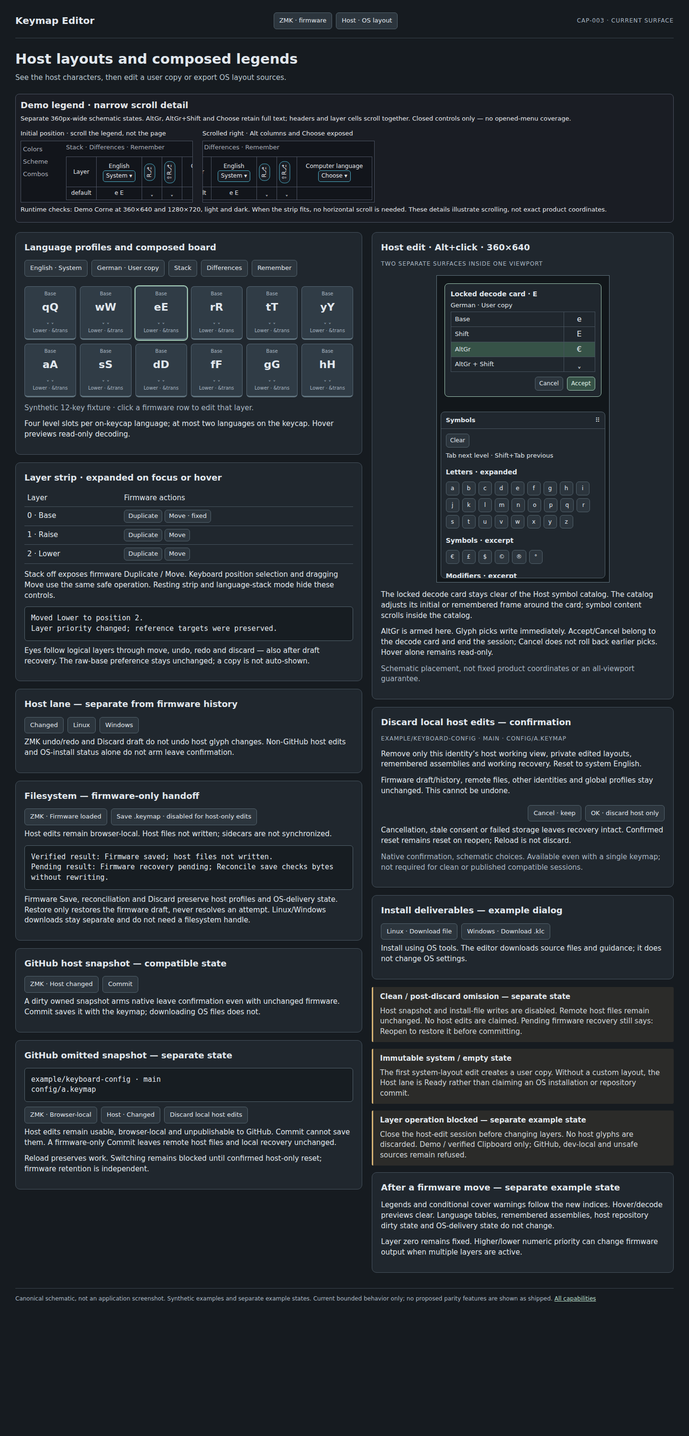
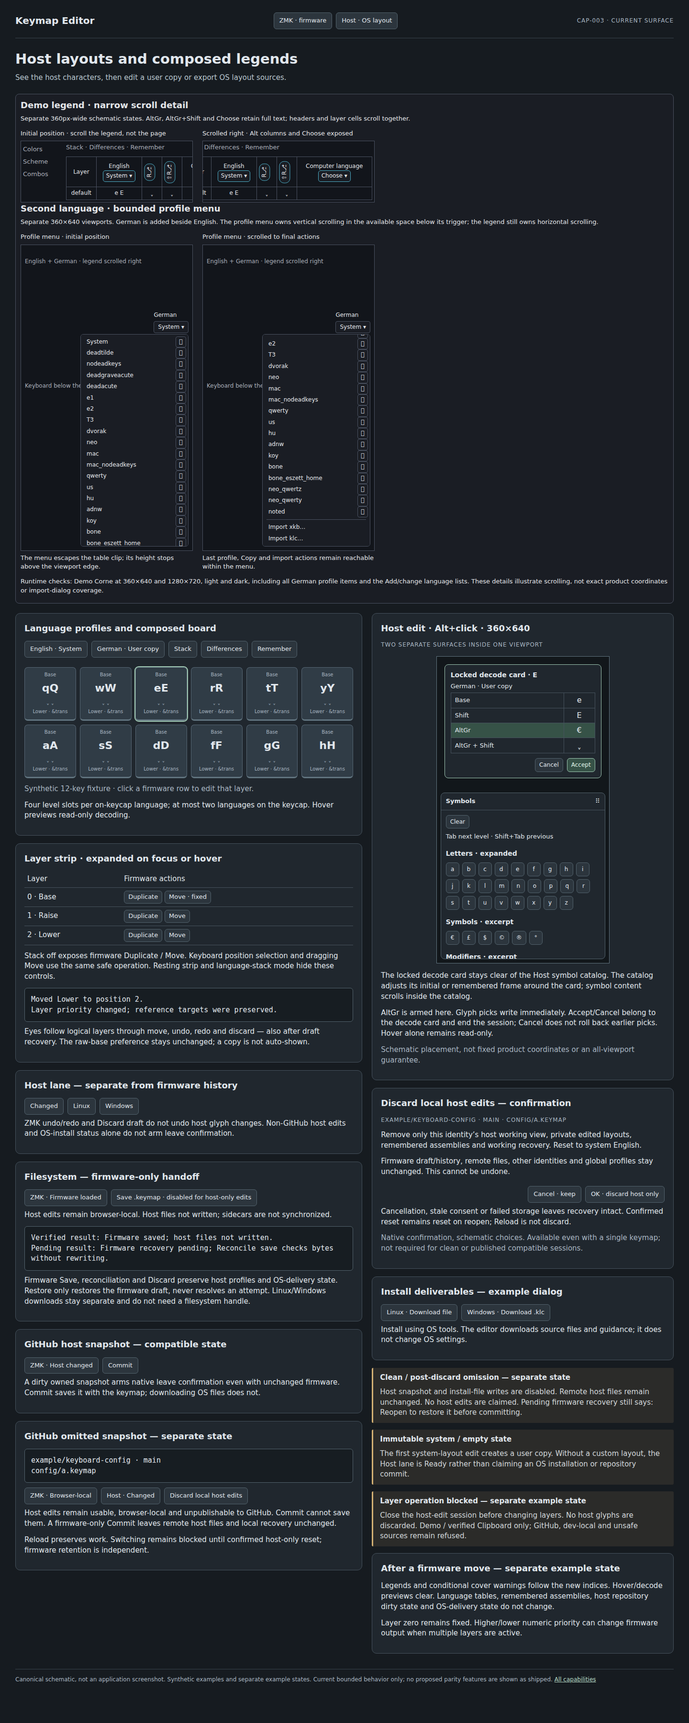
Keep legend menus reachable at narrow viewports.

diff --git a/docs/product/wireframes/html/CAP-003-host-layouts-and-legends.html b/docs/product/wireframes/html/CAP-003-host-layouts-and-legends.html
@@ -12,10 +12,12 @@
 .decode-levels{width:100%;border-collapse:collapse}.decode-levels th,.decode-levels td{padding:4px 8px;border:1px solid #46525d;text-align:left;font-weight:400}.decode-levels td{font-size:16px;text-align:center}.decode-levels .armed{background:#365247}
 .host-catalog{position:absolute;left:8px;top:284px;width:344px;height:348px;display:flex;flex-direction:column;border:1px solid #52626c;border-radius:8px;background:#20272e}.catalog-chrome{display:flex;justify-content:space-between;flex:none;padding:8px 10px;border-bottom:1px solid #46525d}.catalog-body{min-height:0;overflow:auto;scrollbar-gutter:stable;padding:10px}.catalog-body .chips{gap:6px}.catalog-body .chip{min-width:28px;text-align:center}
 
+.legend-profile-list li:not(.legend-menu-separator){margin:0}
+.legend-menu-viewport{position:relative;width:360px;max-width:100%;height:640px;border:1px solid var(--border);background:var(--surface-sunken);font-size:12px}.legend-menu-context{position:absolute;top:20px;left:8px;right:8px;color:var(--text-muted)}.legend-menu-anchor{position:absolute;top:138px;right:8px;display:flex;flex-direction:column;gap:4px}.legend-menu-anchor button{font:inherit;color:var(--text);background:var(--surface);border:1px solid var(--border);border-radius:4px;padding:3px 8px}.legend-menu-board{position:absolute;top:280px;left:8px;color:var(--text-muted)}.legend-profile-list{position:absolute;top:186px;right:8px;width:226px;max-height:calc(100% - 194px);overflow:auto;list-style:none;margin:0;padding:4px;border:1px solid var(--border);border-radius:6px;background:var(--surface)}.legend-profile-list li{display:flex;gap:2px;min-height:23px}.legend-profile-list button{font:inherit;color:var(--text);background:transparent;border:0;text-align:left;flex:1;min-width:0;padding:3px 8px;white-space:nowrap}.legend-profile-list button[aria-label]{flex:none;width:22px;padding:0;text-align:center;border:1px solid var(--border);border-radius:4px}.legend-profile-list .legend-menu-separator{min-height:1px;margin:4px;background:var(--border)}.legend-profile-list::-webkit-scrollbar{width:8px}.legend-profile-list::-webkit-scrollbar-thumb{background:var(--text-muted);border-radius:6px}
 .legend-study{--text:#333;--text-muted:#666;--text-disabled:#8a8a8a;--on-accent:#fff;--surface:#fff;--surface-sunken:#f3f3f3;--border-subtle:#e2e2e2;--border:#ccc;--accent:#1d6f8a;--warn-ink:#664d03;--warn-wash:#fff3cd;--warn-border:#e6d7a2;--danger-ink:#842029;--danger-border:#e2b6bb;color-scheme:light;color:var(--text);background:var(--surface);padding:10px;border:1px solid var(--border);border-radius:8px;margin-bottom:20px;font-size:13px}
 @media(prefers-color-scheme:dark){.legend-study{--text:#e4e6ea;--text-muted:#a8adb8;--text-disabled:#7a8090;--on-accent:#fff;--surface:#1a1d24;--surface-sunken:#12151b;--border-subtle:#2a2f3a;--border:#4a5160;--accent:#4db0c9;--warn-ink:#f0c878;--warn-wash:#3a3018;--warn-border:#6a5a30;--danger-ink:#f0a8a0;--danger-border:#6a3a40;color-scheme:dark}}
 .legend-study h2{margin:0 0 6px}.legend-study p{margin:6px 0}.legend-examples{display:flex;flex-wrap:wrap;gap:20px}.legend-detail{width:360px;max-width:100%;min-width:0}.legend-scroll{overflow-x:auto;border:1px solid var(--border);background:var(--surface-sunken)}.legend-content{display:flex;align-items:flex-start;gap:10px;width:max-content;padding:4px}.legend-rail{width:80px;flex:none;line-height:26px;color:var(--text-muted)}.legend-assembly{height:28px;color:var(--text-muted)}.legend-content table{width:400px;border-collapse:collapse;white-space:nowrap;font-size:12px}.legend-content th,.legend-content td{padding:4px;border:1px solid var(--border);text-align:center;font-weight:500}.legend-content button{font:inherit;color:var(--text);background:var(--surface);border:1px solid var(--accent);border-radius:5px;padding:2px 6px;white-space:nowrap}.legend-alt{display:flex;align-items:center;justify-content:center;width:25px;height:54px}.legend-alt button{flex:none;transform:rotate(-90deg);border-radius:10px}.legend-study :focus-visible{outline:2px solid var(--accent);outline-offset:1px}
-</style></head><body><header><strong>Keymap Editor</strong><div class="chips"><span class="chip">ZMK · firmware</span><span class="chip">Host · OS layout</span></div><span class="eyebrow">CAP-003 · current surface</span></header><main><h1>Host layouts and composed legends</h1><p class="intro">See the host characters, then edit a user copy or export OS layout sources.</p><section class="legend-study" aria-label="Legend scroll reachability"><h2>Demo legend · narrow scroll detail</h2><p>Separate 360px-wide schematic states. AltGr, AltGr+Shift and Choose retain full text; headers and layer cells scroll together. Closed controls only — no opened-menu coverage.</p><div class="legend-examples"><div class="legend-detail"><p>Initial position · scroll the legend, not the page</p><div class="legend-scroll" tabindex="0" role="region" aria-label="Initial legend detail"><div class="legend-content"><div class="legend-rail">Colors<br>Scheme<br>Combos</div><div><div class="legend-assembly">Stack · Differences · Remember</div><table><thead><tr><th>Layer</th><th>English<br><button type="button">System ▾</button></th><th><div class="legend-alt"><button type="button" aria-label="AltGr">R⎇</button></div></th><th><div class="legend-alt"><button type="button" aria-label="AltGr+Shift">⇧R⎇</button></div></th><th>Computer language<br><button type="button">Choose ▾</button></th></tr></thead><tbody><tr><th>default</th><td>e E</td><td>ˬ</td><td>ˬ</td><td></td></tr></tbody></table></div></div></div></div><div class="legend-detail"><p>Scrolled right · Alt columns and Choose exposed</p><div class="legend-scroll" data-scroll-end tabindex="0" role="region" aria-label="Scrolled legend detail"><div class="legend-content"><div class="legend-rail">Colors<br>Scheme<br>Combos</div><div><div class="legend-assembly">Stack · Differences · Remember</div><table><thead><tr><th>Layer</th><th>English<br><button type="button">System ▾</button></th><th><div class="legend-alt"><button type="button" aria-label="AltGr">R⎇</button></div></th><th><div class="legend-alt"><button type="button" aria-label="AltGr+Shift">⇧R⎇</button></div></th><th>Computer language<br><button type="button">Choose ▾</button></th></tr></thead><tbody><tr><th>default</th><td>e E</td><td>ˬ</td><td>ˬ</td><td></td></tr></tbody></table></div></div></div></div></div><p>Runtime checks: Demo Corne at 360×640 and 1280×720, light and dark. When the strip fits, no horizontal scroll is needed. These details illustrate scrolling, not exact product coordinates.</p></section><script>document.fonts.ready.then(() => document.querySelectorAll('[data-scroll-end]').forEach(port => { port.scrollLeft = port.scrollWidth }))</script><div class="columns"><div><section class="card"><h2>Language profiles and composed board</h2><div class="chips"><span class="chip">English · System</span><span class="chip">German · User copy</span><span class="chip">Stack</span><span class="chip">Differences</span><span class="chip">Remember</span></div><div class="board"><div class="key"><small>Base</small><b>qQ</b><span>ˬ ˬ</span><small>Lower · &amp;trans</small></div><div class="key"><small>Base</small><b>wW</b><span>ˬ ˬ</span><small>Lower · &amp;trans</small></div><div class="key focused"><small>Base</small><b>eE</b><span>ˬ ˬ</span><small>Lower · &amp;trans</small></div><div class="key"><small>Base</small><b>rR</b><span>ˬ ˬ</span><small>Lower · &amp;trans</small></div><div class="key"><small>Base</small><b>tT</b><span>ˬ ˬ</span><small>Lower · &amp;trans</small></div><div class="key"><small>Base</small><b>yY</b><span>ˬ ˬ</span><small>Lower · &amp;trans</small></div><div class="key"><small>Base</small><b>aA</b><span>ˬ ˬ</span><small>Lower · &amp;trans</small></div><div class="key"><small>Base</small><b>sS</b><span>ˬ ˬ</span><small>Lower · &amp;trans</small></div><div class="key"><small>Base</small><b>dD</b><span>ˬ ˬ</span><small>Lower · &amp;trans</small></div><div class="key"><small>Base</small><b>fF</b><span>ˬ ˬ</span><small>Lower · &amp;trans</small></div><div class="key"><small>Base</small><b>gG</b><span>ˬ ˬ</span><small>Lower · &amp;trans</small></div><div class="key"><small>Base</small><b>hH</b><span>ˬ ˬ</span><small>Lower · &amp;trans</small></div></div><p class="muted">Synthetic 12-key fixture · click a firmware row to edit that layer.</p><p>Four level slots per on-keycap language; at most two languages on the keycap. Hover previews read-only decoding.</p></section>
+</style></head><body><header><strong>Keymap Editor</strong><div class="chips"><span class="chip">ZMK · firmware</span><span class="chip">Host · OS layout</span></div><span class="eyebrow">CAP-003 · current surface</span></header><main><h1>Host layouts and composed legends</h1><p class="intro">See the host characters, then edit a user copy or export OS layout sources.</p><section class="legend-study" aria-label="Legend scroll reachability"><h2>Demo legend · narrow scroll detail</h2><p>Separate 360px-wide schematic states. AltGr, AltGr+Shift and Choose retain full text; headers and layer cells scroll together.</p><div class="legend-examples"><div class="legend-detail"><p>Initial position · scroll the legend, not the page</p><div class="legend-scroll" tabindex="0" role="region" aria-label="Initial legend detail"><div class="legend-content"><div class="legend-rail">Colors<br>Scheme<br>Combos</div><div><div class="legend-assembly">Stack · Differences · Remember</div><table><thead><tr><th>Layer</th><th>English<br><button type="button">System ▾</button></th><th><div class="legend-alt"><button type="button" aria-label="AltGr">R⎇</button></div></th><th><div class="legend-alt"><button type="button" aria-label="AltGr+Shift">⇧R⎇</button></div></th><th>Computer language<br><button type="button">Choose ▾</button></th></tr></thead><tbody><tr><th>default</th><td>e E</td><td>ˬ</td><td>ˬ</td><td></td></tr></tbody></table></div></div></div></div><div class="legend-detail"><p>Scrolled right · Alt columns and Choose exposed</p><div class="legend-scroll" data-scroll-end tabindex="0" role="region" aria-label="Scrolled legend detail"><div class="legend-content"><div class="legend-rail">Colors<br>Scheme<br>Combos</div><div><div class="legend-assembly">Stack · Differences · Remember</div><table><thead><tr><th>Layer</th><th>English<br><button type="button">System ▾</button></th><th><div class="legend-alt"><button type="button" aria-label="AltGr">R⎇</button></div></th><th><div class="legend-alt"><button type="button" aria-label="AltGr+Shift">⇧R⎇</button></div></th><th>Computer language<br><button type="button">Choose ▾</button></th></tr></thead><tbody><tr><th>default</th><td>e E</td><td>ˬ</td><td>ˬ</td><td></td></tr></tbody></table></div></div></div></div></div><h2>Second language · bounded profile menu</h2><p>Separate 360×640 viewports. German is added beside English. The profile menu owns vertical scrolling in the available space below its trigger; the legend still owns horizontal scrolling.</p><div class="legend-examples"><div class="legend-detail"><p>Profile menu · initial position</p><div class="legend-menu-viewport" aria-label="360 by 640 German profile menu initial"><p class="legend-menu-context">English + German · legend scrolled right</p><div class="legend-menu-anchor"><span>German</span><button type="button">System ▾</button></div><p class="legend-menu-board">Keyboard below the legend</p><ul class="legend-profile-list" aria-label="German profiles" tabindex="0"><li><button type="button">System</button><button type="button" aria-label="Copy System">⧉</button></li><li><button type="button">deadtilde</button><button type="button" aria-label="Copy deadtilde">⧉</button></li><li><button type="button">nodeadkeys</button><button type="button" aria-label="Copy nodeadkeys">⧉</button></li><li><button type="button">deadgraveacute</button><button type="button" aria-label="Copy deadgraveacute">⧉</button></li><li><button type="button">deadacute</button><button type="button" aria-label="Copy deadacute">⧉</button></li><li><button type="button">e1</button><button type="button" aria-label="Copy e1">⧉</button></li><li><button type="button">e2</button><button type="button" aria-label="Copy e2">⧉</button></li><li><button type="button">T3</button><button type="button" aria-label="Copy T3">⧉</button></li><li><button type="button">dvorak</button><button type="button" aria-label="Copy dvorak">⧉</button></li><li><button type="button">neo</button><button type="button" aria-label="Copy neo">⧉</button></li><li><button type="button">mac</button><button type="button" aria-label="Copy mac">⧉</button></li><li><button type="button">mac_nodeadkeys</button><button type="button" aria-label="Copy mac_nodeadkeys">⧉</button></li><li><button type="button">qwerty</button><button type="button" aria-label="Copy qwerty">⧉</button></li><li><button type="button">us</button><button type="button" aria-label="Copy us">⧉</button></li><li><button type="button">hu</button><button type="button" aria-label="Copy hu">⧉</button></li><li><button type="button">adnw</button><button type="button" aria-label="Copy adnw">⧉</button></li><li><button type="button">koy</button><button type="button" aria-label="Copy koy">⧉</button></li><li><button type="button">bone</button><button type="button" aria-label="Copy bone">⧉</button></li><li><button type="button">bone_eszett_home</button><button type="button" aria-label="Copy bone_eszett_home">⧉</button></li><li><button type="button">neo_qwertz</button><button type="button" aria-label="Copy neo_qwertz">⧉</button></li><li><button type="button">neo_qwerty</button><button type="button" aria-label="Copy neo_qwerty">⧉</button></li><li><button type="button">noted</button><button type="button" aria-label="Copy noted">⧉</button></li><li class="legend-menu-separator"></li><li><button type="button">Import xkb…</button></li><li><button type="button">Import klc…</button></li></ul></div><p>The menu escapes the table clip; its height stops above the viewport edge.</p></div><div class="legend-detail"><p>Profile menu · scrolled to final actions</p><div class="legend-menu-viewport" aria-label="360 by 640 German profile menu scrolled"><p class="legend-menu-context">English + German · legend scrolled right</p><div class="legend-menu-anchor"><span>German</span><button type="button">System ▾</button></div><p class="legend-menu-board">Keyboard below the legend</p><ul class="legend-profile-list" aria-label="German profiles" tabindex="0" data-scroll-bottom><li><button type="button">System</button><button type="button" aria-label="Copy System">⧉</button></li><li><button type="button">deadtilde</button><button type="button" aria-label="Copy deadtilde">⧉</button></li><li><button type="button">nodeadkeys</button><button type="button" aria-label="Copy nodeadkeys">⧉</button></li><li><button type="button">deadgraveacute</button><button type="button" aria-label="Copy deadgraveacute">⧉</button></li><li><button type="button">deadacute</button><button type="button" aria-label="Copy deadacute">⧉</button></li><li><button type="button">e1</button><button type="button" aria-label="Copy e1">⧉</button></li><li><button type="button">e2</button><button type="button" aria-label="Copy e2">⧉</button></li><li><button type="button">T3</button><button type="button" aria-label="Copy T3">⧉</button></li><li><button type="button">dvorak</button><button type="button" aria-label="Copy dvorak">⧉</button></li><li><button type="button">neo</button><button type="button" aria-label="Copy neo">⧉</button></li><li><button type="button">mac</button><button type="button" aria-label="Copy mac">⧉</button></li><li><button type="button">mac_nodeadkeys</button><button type="button" aria-label="Copy mac_nodeadkeys">⧉</button></li><li><button type="button">qwerty</button><button type="button" aria-label="Copy qwerty">⧉</button></li><li><button type="button">us</button><button type="button" aria-label="Copy us">⧉</button></li><li><button type="button">hu</button><button type="button" aria-label="Copy hu">⧉</button></li><li><button type="button">adnw</button><button type="button" aria-label="Copy adnw">⧉</button></li><li><button type="button">koy</button><button type="button" aria-label="Copy koy">⧉</button></li><li><button type="button">bone</button><button type="button" aria-label="Copy bone">⧉</button></li><li><button type="button">bone_eszett_home</button><button type="button" aria-label="Copy bone_eszett_home">⧉</button></li><li><button type="button">neo_qwertz</button><button type="button" aria-label="Copy neo_qwertz">⧉</button></li><li><button type="button">neo_qwerty</button><button type="button" aria-label="Copy neo_qwerty">⧉</button></li><li><button type="button">noted</button><button type="button" aria-label="Copy noted">⧉</button></li><li class="legend-menu-separator"></li><li><button type="button">Import xkb…</button></li><li><button type="button">Import klc…</button></li></ul></div><p>Last profile, Copy and import actions remain reachable within the menu.</p></div></div><p>Runtime checks: Demo Corne at 360×640 and 1280×720, light and dark, including all German profile items and the Add/change language lists. These details illustrate scrolling, not exact product coordinates or import-dialog coverage.</p></section><script>document.fonts.ready.then(() => { document.querySelectorAll('[data-scroll-end]').forEach(port => { port.scrollLeft = port.scrollWidth }); document.querySelectorAll('[data-scroll-bottom]').forEach(port => { port.scrollTop = port.scrollHeight }) })</script><div class="columns"><div><section class="card"><h2>Language profiles and composed board</h2><div class="chips"><span class="chip">English · System</span><span class="chip">German · User copy</span><span class="chip">Stack</span><span class="chip">Differences</span><span class="chip">Remember</span></div><div class="board"><div class="key"><small>Base</small><b>qQ</b><span>ˬ ˬ</span><small>Lower · &amp;trans</small></div><div class="key"><small>Base</small><b>wW</b><span>ˬ ˬ</span><small>Lower · &amp;trans</small></div><div class="key focused"><small>Base</small><b>eE</b><span>ˬ ˬ</span><small>Lower · &amp;trans</small></div><div class="key"><small>Base</small><b>rR</b><span>ˬ ˬ</span><small>Lower · &amp;trans</small></div><div class="key"><small>Base</small><b>tT</b><span>ˬ ˬ</span><small>Lower · &amp;trans</small></div><div class="key"><small>Base</small><b>yY</b><span>ˬ ˬ</span><small>Lower · &amp;trans</small></div><div class="key"><small>Base</small><b>aA</b><span>ˬ ˬ</span><small>Lower · &amp;trans</small></div><div class="key"><small>Base</small><b>sS</b><span>ˬ ˬ</span><small>Lower · &amp;trans</small></div><div class="key"><small>Base</small><b>dD</b><span>ˬ ˬ</span><small>Lower · &amp;trans</small></div><div class="key"><small>Base</small><b>fF</b><span>ˬ ˬ</span><small>Lower · &amp;trans</small></div><div class="key"><small>Base</small><b>gG</b><span>ˬ ˬ</span><small>Lower · &amp;trans</small></div><div class="key"><small>Base</small><b>hH</b><span>ˬ ˬ</span><small>Lower · &amp;trans</small></div></div><p class="muted">Synthetic 12-key fixture · click a firmware row to edit that layer.</p><p>Four level slots per on-keycap language; at most two languages on the keycap. Hover previews read-only decoding.</p></section>
 <section class="card"><h2>Layer strip · expanded on focus or hover</h2><table class="layer-rows"><thead><tr><th>Layer</th><th>Firmware actions</th></tr></thead><tbody><tr><th>0 · Base</th><td><span class="chip">Duplicate</span> <span class="chip">Move · fixed</span></td></tr><tr><th>1 · Raise</th><td><span class="chip">Duplicate</span> <span class="chip">Move</span></td></tr><tr><th>2 · Lower</th><td><span class="chip">Duplicate</span> <span class="chip">Move</span></td></tr></tbody></table><p>Stack off exposes firmware Duplicate / Move. Keyboard position selection and dragging Move use the same safe operation. Resting strip and language-stack mode hide these controls.</p><div class="field">Moved Lower to position 2.<br>Layer priority changed; reference targets were preserved.</div><p>Eyes follow logical layers through move, undo, redo and discard — also after draft recovery. The raw-base preference stays unchanged; a copy is not auto-shown.</p></section>
 <section class="card"><h2>Host lane — separate from firmware history</h2><div class="chips"><span class="chip">Changed</span><span class="chip">Linux</span><span class="chip">Windows</span></div><p>ZMK undo/redo and Discard draft do not undo host glyph changes. Non-GitHub host edits and OS-install status alone do not arm leave confirmation.</p></section>
 <section class="card"><h2>Filesystem — firmware-only handoff</h2><div class="chips"><span class="chip">ZMK · Firmware loaded</span><span class="chip">Save .keymap · disabled for host-only edits</span></div><p>Host edits remain browser-local. Host files not written; sidecars are not synchronized.</p><div class="field">Verified result: Firmware saved; host files not written.<br>Pending result: Firmware recovery pending; Reconcile save checks bytes without rewriting.</div><p>Firmware Save, reconciliation and Discard preserve host profiles and OS-delivery state. Restore only restores the firmware draft, never resolves an attempt. Linux/Windows downloads stay separate and do not need a filesystem handle.</p></section>

diff --git a/e2e/legend-clipping.spec.ts b/e2e/legend-clipping.spec.ts
@@ -1,7 +1,7 @@
 import { expect, test, type Locator } from '@playwright/test'
 
 /** Check painted text as well as boxes, before Playwright can auto-scroll a click. */
-async function expectReachable(control: Locator) {
+async function expectReachable(control: Locator, hasText = true) {
   await expect(control).toBeVisible()
   const measure = () => control.evaluate(element => {
     const box = (rect: DOMRect) => ({
@@ -52,12 +52,16 @@ async function expectReachable(control: Locator) {
         if (/^(hidden|clip|auto|scroll)$/.test(overflow) &&
           !painted.every(bounds => contains(port, bounds, axis))) issues.push(`${name} clips ${axis}`)
       }
+      // Chromium reports no offsetParent for viewport-fixed menus. Their own
+      // scrollport clips items, but outer DOM ancestors do not; the viewport
+      // checks above still apply. A transformed containing block is not exempt.
+      if (style.position === 'fixed' && ancestor.offsetParent === null) break
     }
     return { border, text, issues, scrollers }
   })
 
   const before = await measure()
-  expect(before.text.length, 'control has measurable text').toBeGreaterThan(0)
+  if (hasText) expect(before.text.length, 'control has measurable text').toBeGreaterThan(0)
   if (before.issues.length) {
     expect(before.scrollers.length, `No viewport-contained auto/scroll ancestor: ${JSON.stringify(before)}`)
       .toBeGreaterThan(0)
@@ -65,6 +69,10 @@ async function expectReachable(control: Locator) {
   await control.evaluate(element => element.scrollIntoView({ block: 'nearest', inline: 'nearest', behavior: 'instant' }))
   await expect.poll(async () => (await measure()).issues, `Full box/text must be exposed: ${JSON.stringify(before)}`)
     .toEqual([])
+  await expect.poll(() => control.evaluate(element => {
+    const rect = element.getBoundingClientRect()
+    return element.contains(document.elementFromPoint(rect.x + rect.width / 2, rect.y + rect.height / 2))
+  }), 'Exposed control must be painted and hit-testable').toBe(true)
 }
 
 for (const theme of ['light', 'dark'] as const) {
@@ -100,7 +108,7 @@ for (const theme of ['light', 'dark'] as const) {
       await expectReachable(controls[2])
       await expect(controls[2]).toBeEnabled()
       await expect(controls[2]).toBeFocused()
-      // Do not open profile/language menus here: their reachability is a separate phase.
+      // Open-menu coverage below uses a second host language.
       await expect(controls[2]).toHaveAttribute('aria-expanded', 'false')
       const alignment = await legend.locator('table').evaluate(table => {
         const headers = Array.from(table.querySelectorAll('thead th'), cell => cell.getBoundingClientRect())
@@ -113,6 +121,85 @@ for (const theme of ['light', 'dark'] as const) {
       expect(alignment.length).toBeGreaterThan(1)
       expect(alignment.every(Boolean)).toBe(true)
       await page.screenshot({ path: info.outputPath('legend-expanded.png') })
+    })
+
+    test(`second-language legend menus are reachable · ${theme} ${viewport.width}x${viewport.height}`, async ({ page }, info) => {
+      await page.setViewportSize(viewport)
+      await page.addInitScript(() => localStorage.setItem('coachTourDone', '1'))
+      await page.goto('/')
+      await expect(page.getByTestId('source-menu-trigger')).toHaveAccessibleName('Demo keyboard: Corne')
+      if (theme === 'light') await page.getByRole('button', { name: 'Color theme: Dark' }).click()
+      await expect(page.locator('html')).toHaveAttribute('data-color-scheme', theme)
+      await page.evaluate(() => document.fonts.ready)
+      const legend = page.getByRole('region', { name: 'Host legend', exact: true })
+      await legend.getByRole('button', { name: 'Computer language', exact: true }).click()
+      await legend.getByRole('option', { name: 'German', exact: true }).click()
+      const profile = legend.getByRole('button', { name: /^Profile German:/ })
+      await expect(profile).toHaveAccessibleName('Profile German: System')
+      await expect(legend.getByRole('button', { name: /^Profile / })).toHaveCount(2)
+      await expectReachable(profile)
+      await profile.click()
+      const menu = legend.getByRole('menu', { name: 'Profile German', exact: true })
+      await expect(menu).toBeVisible()
+      await page.screenshot({ path: info.outputPath('legend-profile-open.png') })
+      const items = menu.getByRole('menuitem')
+      await expect(items).toHaveCount(46) // 22 system profiles, their Copy actions and two imports.
+      for (const item of await items.all()) {
+        // Copy actions paint an SVG rather than a text node; still check their full boxes.
+        await expectReachable(item, !(await item.getAttribute('aria-label'))?.startsWith('Copy '))
+      }
+      await page.screenshot({ path: info.outputPath('legend-profile-scrolled.png') })
+      const lastProfile = menu.getByRole('menuitem', { name: 'noted', exact: true })
+      await expectReachable(lastProfile)
+      await lastProfile.click()
+      await expect(menu).toHaveCount(0)
+      await expect(profile).toHaveAccessibleName('Profile German: noted')
+      await profile.press('Enter')
+      await expect(menu.getByRole('menuitem', { name: 'noted', exact: true })).toHaveAttribute('aria-current', 'true')
+      await expectReachable(menu.getByRole('menuitem', { name: 'System', exact: true }))
+      await menu.getByRole('menuitem', { name: 'System', exact: true }).press('Enter')
+      await expect(profile).toHaveAccessibleName('Profile German: System')
+      await profile.click()
+      await page.keyboard.press('Escape')
+      await expect(menu).toHaveCount(0)
+      await expect(profile).toBeFocused()
+
+      // The far-right Add language trigger moves further out once German is present.
+      const add = legend.getByRole('button', { name: 'Add language', exact: true })
+      await expectReachable(add)
+      await add.click()
+      const languages = legend.getByRole('listbox', { name: 'Language', exact: true })
+      await expect(languages.getByRole('option')).toHaveCount(18)
+      await expect(languages.getByRole('option', { name: 'Bulgarian', exact: true })).toBeFocused()
+      await page.screenshot({ path: info.outputPath('legend-add-language-open.png') })
+      for (const option of await languages.getByRole('option').all()) await expectReachable(option)
+      await page.screenshot({ path: info.outputPath('legend-add-language-scrolled.png') })
+      await page.keyboard.press('Escape')
+      await expect(languages).toHaveCount(0)
+      await expect(add).toHaveAttribute('aria-expanded', 'false')
+
+      const language = legend.getByRole('button', { name: 'Language German', exact: true })
+      await expectReachable(language, false)
+      await language.click()
+      await expect(languages.getByRole('option')).toHaveCount(20)
+      const selected = languages.getByRole('option', { name: 'German', exact: true })
+      await expect(selected).toBeDisabled()
+      await expect(selected).toHaveAttribute('aria-selected', 'true')
+      await expect(languages.getByRole('option', { name: 'Bulgarian', exact: true })).toBeFocused()
+      await page.screenshot({ path: info.outputPath('legend-language-open.png') })
+      for (const option of await languages.getByRole('option').all()) await expectReachable(option)
+      await page.screenshot({ path: info.outputPath('legend-language-scrolled.png') })
+      await page.mouse.click(0, 0)
+      await expect(languages).toHaveCount(0)
+      await expect(profile).toHaveAccessibleName('Profile German: System')
+      await language.click()
+      const remove = languages.getByRole('option', { name: 'Remove language', exact: true })
+      await expectReachable(remove)
+      await remove.click()
+      await expect(languages).toHaveCount(0)
+      await expect(profile).toHaveCount(0)
+      await expect(legend.getByRole('button', { name: 'Profile English: System', exact: true })).toBeVisible()
+      await expect(page.getByRole('button', { name: 'Undo', exact: true })).toBeDisabled()
     })
 
     test(`layer delete confirmation escapes the legend scroller · ${theme} ${viewport.width}x${viewport.height}`, async ({ page }, info) => {

diff --git a/apps/web/src/lib/actions/legend-popover.ts b/apps/web/src/lib/actions/legend-popover.ts
@@ -3,13 +3,22 @@ export function legendPopover(node: HTMLElement) {
   const anchor = node.parentElement
   if (!anchor) return
   const original = { position: node.style.position, left: node.style.left, top: node.style.top }
+  const originalMaxHeight = node.style.getPropertyValue('--legend-popover-max-height')
   node.style.position = 'fixed'
 
   function place() {
     const rect = anchor!.getBoundingClientRect()
     const width = node.getBoundingClientRect().width
+    const top = rect.bottom + 2
     node.style.left = `${Math.max(8, Math.min(rect.left, window.innerWidth - width - 8))}px`
-    node.style.top = `${rect.bottom + 2}px`
+    node.style.top = `${top}px`
+    // Menus can opt into the remaining height without changing DOM ownership.
+    // CSS max-height constrains the content box unless border-box is in use.
+    const style = getComputedStyle(node)
+    const edges = style.boxSizing === 'border-box' ? 0 :
+      parseFloat(style.paddingTop) + parseFloat(style.paddingBottom) +
+      parseFloat(style.borderTopWidth) + parseFloat(style.borderBottomWidth)
+    node.style.setProperty('--legend-popover-max-height', `${Math.max(0, window.innerHeight - top - 8 - edges)}px`)
   }
 
   place()
@@ -25,6 +34,8 @@ export function legendPopover(node: HTMLElement) {
       window.removeEventListener('scroll', place, true)
       window.removeEventListener('resize', place)
       Object.assign(node.style, original)
+      if (originalMaxHeight) node.style.setProperty('--legend-popover-max-height', originalMaxHeight)
+      else node.style.removeProperty('--legend-popover-max-height')
     }
   }
 }

diff --git a/apps/web/src/lib/components/HostProfileMenu.svelte b/apps/web/src/lib/components/HostProfileMenu.svelte
@@ -482,7 +482,7 @@
     left: 0;
     z-index: var(--z-popover);
     min-width: 14rem;
-    max-height: min(48rem, 90vh);
+    max-height: min(48rem, 90vh, var(--legend-popover-max-height, 90vh));
     margin: 0;
     padding: 4px 0;
     overflow: auto;

diff --git a/docs/product/capabilities/CAP-003-host-layouts-and-legends.md b/docs/product/capabilities/CAP-003-host-layouts-and-legends.md
@@ -6,7 +6,8 @@
 ## Behaviour
 
 - Composed keycaps show host-resolved glyphs from selected language layouts alongside firmware layer bindings. The shared keycapFace contract uses four level slots per displayed language, with at most two languages on the keycap.
-- On Demo Corne at 360×640 and 1280×720 in light and dark themes, the legend's AltGr, AltGr+Shift and Computer language / Choose controls fit in the viewport or are fully exposed by scrolling the legend horizontally. Their border boxes and text remain intact, and the layer columns stay aligned. This bounded claim covers the resting and expanded strip, not opened profile or language menus.
+- On Demo Corne at 360×640 and 1280×720 in light and dark themes, the legend's AltGr, AltGr+Shift and Computer language / Choose controls fit in the viewport or are fully exposed by scrolling the legend horizontally. Their border boxes and text remain intact, and the layer columns stay aligned in the resting and expanded strip.
+- With German added beside English at those viewports/themes, the rightmost profile menu, Add language list and German change/remove list expose all their items through viewport-contained scrolling. Profile and language text remains intact; icon-only Copy controls retain reachable boxes. The German profile menu is height-bounded below its trigger, so its last profiles and import actions do not disappear below the viewport. This covers the system-profile menu and language lists, not arbitrary user-profile names or opened import dialogs.
 - Hover is a read-only decode preview. Alt+click starts a host-edit session; choosing a glyph updates the host layout immediately. The first edit of a system layout makes a user copy.
 - At 360×640, the Alt+click Host symbol catalog and locked decode card remain inside the viewport without overlapping. The catalog adjusts its initial or remembered frame around the card and scrolls its own symbol content; the level cells and session actions remain unobstructed. This is a bounded narrow-viewport layout outcome, not a guarantee for every viewport or arbitrary card size.
 - Accept/Cancel end the host-edit session; Cancel is not rollback of already chosen glyphs. ZMK undo/redo does not undo host-layout edits.
@@ -35,6 +36,7 @@
 - `apps/web/src/App.svelte` and `apps/web/src/lib/editor/select-keyboard.ts` — browser-local status, standalone discard and transition guard.
 - `apps/web/src/lib/components/HostLegendPicker.svelte` and `apps/web/src/lib/components/HostLegendLayerRow.svelte` — expanded firmware rows, keyboard/drag controls and feedback.
 - `apps/web/src/lib/components/HostLegendPicker.svelte` — viewport-bounded horizontal scrollport for the complete legend table; Alt glyphs retain their existing size and rotation.
+- `apps/web/src/lib/actions/legend-popover.ts` and `apps/web/src/lib/components/HostProfileMenu.svelte` — viewport-positioned menus retain legend DOM ownership; the profile list caps its own scrolling height to the remaining space below its trigger.
 - `apps/web/src/lib/editor/document.svelte.ts` and `apps/web/src/lib/editor/persist-draft.ts` — logical layer/view identity across history and recovery.
 
 ## Rules and boundaries
@@ -48,7 +50,7 @@
 
 ## Verification
 
-- `e2e/legend-clipping.spec.ts` — Demo Corne at 360×640 and 1280×720 in both themes: named control boxes and text ranges, viewport-contained auto/scroll ancestry and full exposure after scrolling, reversible pointer/keyboard Alt toggles, Choose focus and layer-column alignment. Body/html hidden overflow does not qualify as scroll reachability; opened menus are not covered.
+- `e2e/legend-clipping.spec.ts` — Demo Corne at 360×640 and 1280×720 in both themes: named control boxes and text ranges, viewport-contained auto/scroll ancestry, full exposure and hit-testing after scrolling, reversible pointer/keyboard Alt toggles, Choose focus and layer-column alignment. Adds German through the UI and checks every system-profile menu item (including Copy/import actions), Add language option and German change/remove option. Exercises pointer/keyboard profile selection, profile Escape/focus, language initial focus, disabled selected language, Escape/outside dismissal and pointer removal without firmware history changes. Viewport-fixed menus escape outer DOM scroll clips, not the viewport; body/html hidden overflow never qualifies as scroll reachability.
 - `apps/web/src/lib/components/Keyboard/Keys/Key.test.ts` — composed faces, click/Alt+click and host editing.
 - `e2e/host-symbol-picker-layout.spec.ts` — Alt+click on a synthetic Clipboard key at 360×640 opens the catalog and locked decode card with non-overlapping, viewport-contained bounds.
 - `apps/web/src/lib/components/HostSymbolPicker.test.ts` — catalog interaction plus geometry cases for gutter clearance, overlapping frames, already-clear placement and vertical stacking; these geometry checks are not browser remembered-frame recovery or an all-screen/card-size matrix.

diff --git a/apps/web/AGENTS.md b/apps/web/AGENTS.md
@@ -58,7 +58,7 @@ Fence host view, table and assembly mutations while hostRecoveryBusy; a committe
 
 Follow root keycapFace and CSS-sidecar rules. Pair material interaction changes with CAP tests and canonical wireframes.
 
-The legend panel owns horizontal scrolling within the available chrome width. Scroll the complete table without wrapping its headers away from layer cells or ellipsizing rotated Alt glyphs. Keep notes and layer confirmations outside the table scrollport; language/profile popovers use viewport positioning to escape its clip while retaining DOM ownership for focus and dismissal. Keep profile/language selection and Alt-toggle semantics separate from layout.
+The legend panel owns horizontal scrolling within the available chrome width. Scroll the complete table without wrapping its headers away from layer cells or ellipsizing rotated Alt glyphs. Keep notes and layer confirmations outside the table scrollport; language/profile popovers use viewport positioning to escape its clip while retaining DOM ownership for focus and dismissal. The profile list consumes the popover action's available-height limit and scrolls vertically above the viewport bottom. Keep profile/language selection and Alt-toggle semantics separate from layout.
 
 Layer-view tests distinguish stored preferences from effective rendered layers. `layerView.shown` may include unavailable layers; check current-layer bounds through core `effectiveShownLayers`, and preserve marks and `layer0Raw` across discard/undo/redo. Keep captured model-property seeds as additional replay cases, not replacements for fresh random runs.
 
@@ -86,7 +86,7 @@ From repository root: pnpm --filter @keymap-editor/web test; pnpm --filter @keym
 
 `pnpm exec playwright test e2e/editor-design-language.spec.ts` checks bounded Macro/Behavior control styles, keyboard/disabled states and wrapping in light/dark at 1280×720 and 360×640. Behavior examples cover ordered tap-dance, hold-tap flavor, sticky-key flags/typed invocation, mod-morph required fields, sensor-rotate, opaque diagnostics and source restrictions; this is not exhaustive schema certification.
 
-`pnpm exec playwright test e2e/legend-clipping.spec.ts` checks Demo Corne's resting/expanded AltGr, AltGr+Shift and Choose controls at those viewports/themes. Measure boxes and text ranges; accept offscreen controls only through viewport-contained auto/scroll ancestry that exposes both. It also checks that the auto-focused layer Delete confirmation is painted outside the scrollport and Escape cancels without editing. Open-menu reachability is not covered.
+`pnpm exec playwright test e2e/legend-clipping.spec.ts` checks Demo Corne's resting/expanded AltGr, AltGr+Shift and Choose controls at those viewports/themes, plus every item in the German system-profile menu and Add/change language lists with English and German present. Measure boxes and text ranges; accept offscreen controls only through viewport-contained auto/scroll ancestry that exposes both, and verify hit-testing. Viewport-fixed menus escape outer DOM scroll clips, not the viewport; SVG-only controls still require full boxes. It also checks that the auto-focused layer Delete confirmation is painted outside the scrollport and Escape cancels without editing.
 
 ## Child DOX Index
 

diff --git a/docs/product/wireframes/AGENTS.md b/docs/product/wireframes/AGENTS.md
@@ -20,7 +20,7 @@ Follow [the editor design language](../../ui-design-language.md) for hierarchy, 
 
 CAP-001's Macro and Behavior studies share the generator's existing control/group styles, extract their semantic color roles from `apps/web/src/app.css` during generation and follow `prefers-color-scheme` in standalone HTML. The canonical PNG uses the renderer's dark manifest viewport. Inspect these studies separately in both themes and at desktop/narrow widths; other legacy schematic sections are not an all-surface theme-conformance claim.
 
-CAP-003's legend detail shows separate initial and scrolled-right narrow states with the same app-derived theme roles. Its table scrolls as a unit; the scrolled example is initialized in generated HTML so the PNG exposes both Alt columns and Choose. It illustrates closed controls only, not open-menu reachability.
+CAP-003's legend detail shows separate initial and scrolled-right narrow states with the same app-derived theme roles. Its table scrolls as a unit; the scrolled example is initialized in generated HTML so the PNG exposes both Alt columns and Choose. Separate English-plus-German profile-menu states show a viewport-bounded vertical scrollport before and after scrolling to the last profile and import actions. Initialize both scroll axes in generated HTML; these schematics do not certify arbitrary profiles or import dialogs.
 
 ## Verification
 
